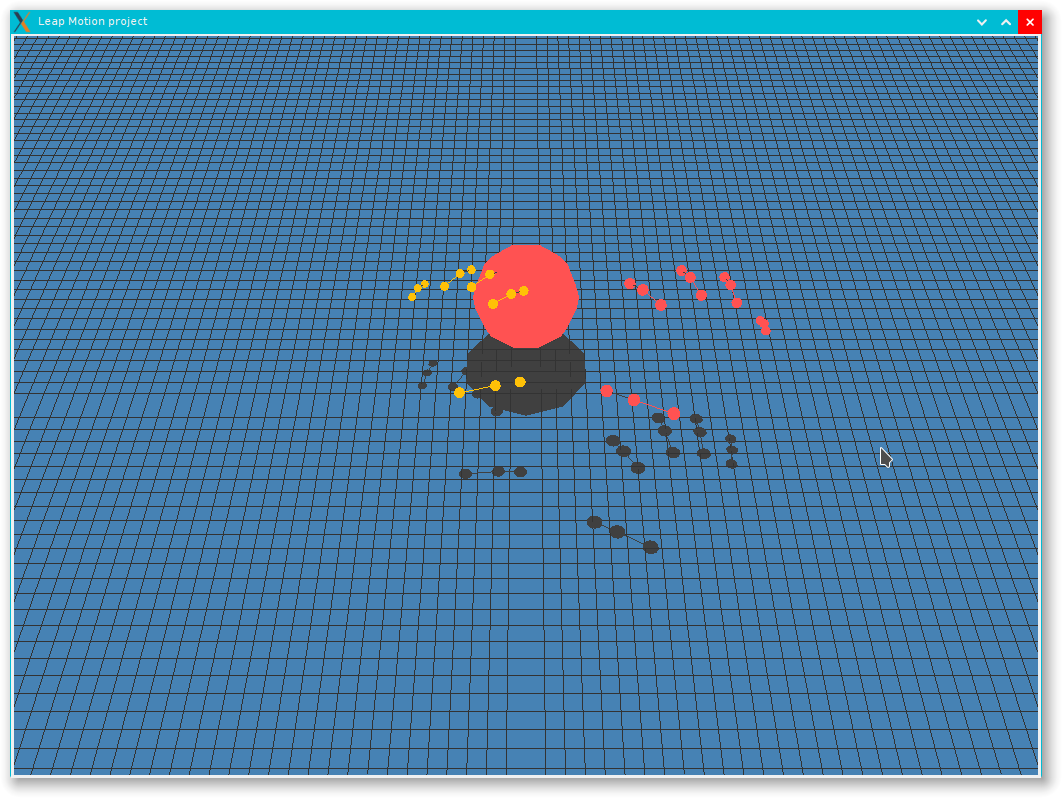
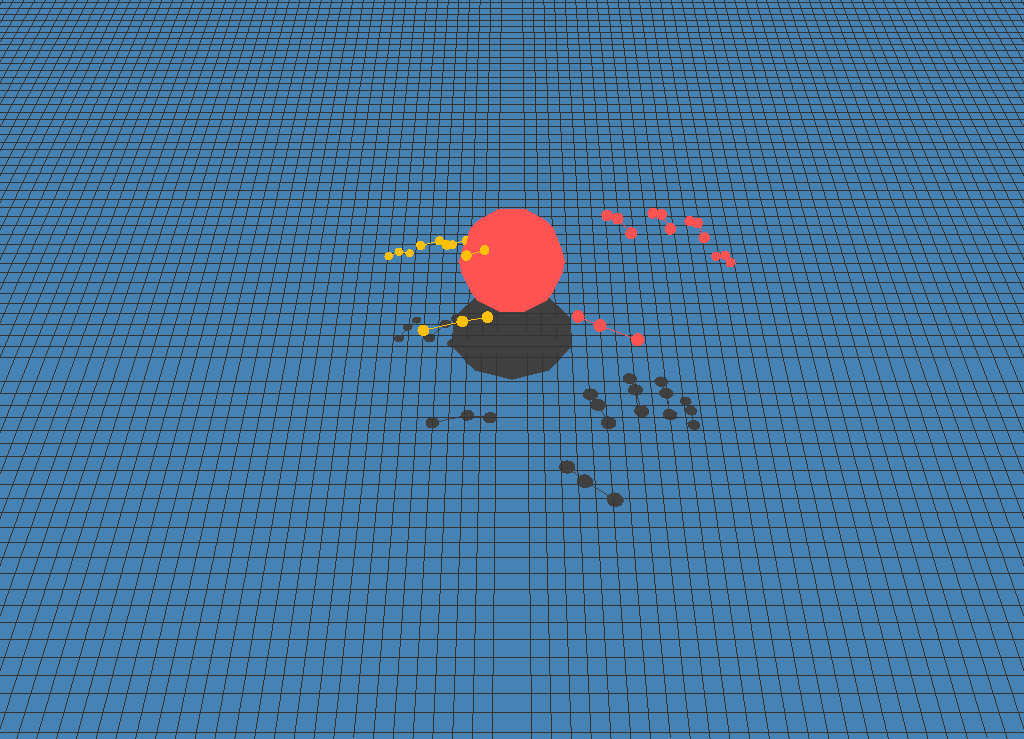
Updates screenshots and finish somewhat ugly but actually working code.

diff --git a/LeapDriver.py b/LeapDriver.py
@@ -3,7 +3,7 @@
 import numpy
 import Leap, sys
 
-tutorial_steps = 2
+tutorial_steps = 3
 current_step = 0
 
 class SampleListener(Leap.Listener):
@@ -45,7 +45,7 @@ class SampleListener(Leap.Listener):
 
 		global current_step
 
-		# If the tutorial is not finished, try to detect swipe gesture
+		# If the tutorial is not finished, try to detect key tap gesture
 		if current_step < tutorial_steps:
 			for gesture in frame.gestures():
 				if gesture.type == Leap.Gesture.TYPE_KEY_TAP:

diff --git a/GUI.py b/GUI.py
@@ -52,9 +52,9 @@ steel_gray   = [0.25, 0.25, 0.25]
 grid_gray    = [0.2, 0.2, 0.2]
 
 # Tutorial images
-tutorial_images = ['Screenshots/FirstScreen.png','Screenshots/SecondScreen.png']
-WIDTH = 1062
-HEIGHT = 798
+tutorial_images = ['Screenshots/FirstScreen.png','Screenshots/SecondScreen.png','Screenshots/ThirdScreen.png']
+WIDTH = 1024
+HEIGHT = 739
 screen = pygame.display.set_mode((WIDTH,HEIGHT),0,32)
 
 # To the color desired, the radius of the sphere and his position
